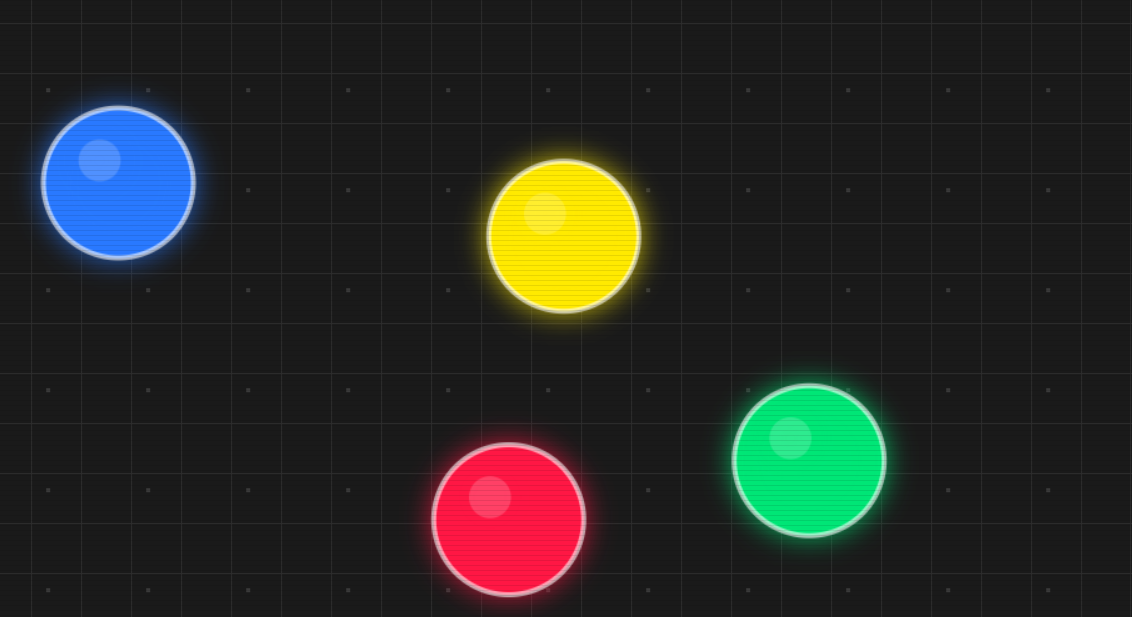
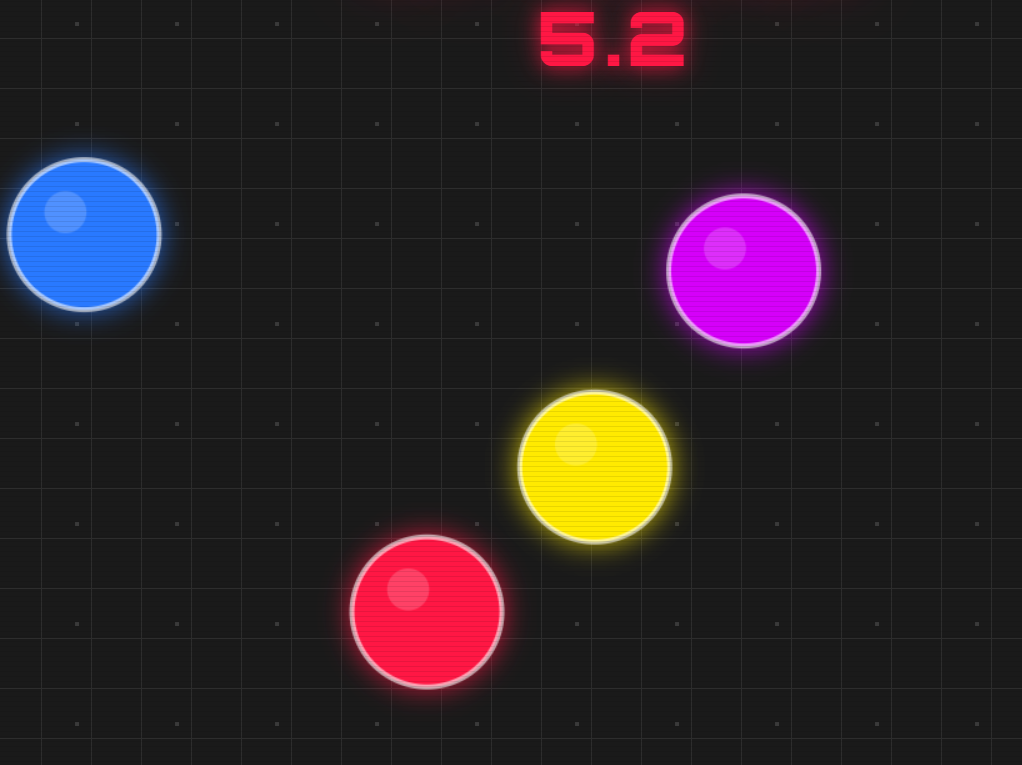
Add files via upload

diff --git a/AimTrainer/script.js b/AimTrainer/script.js
@@ -198,27 +198,25 @@ function updateStats() {
 }
 
 // ── COUNTDOWN ─────────────────────────────────────────────────────
+const countdownEl = document.getElementById("countdown");
+
 function startCountdown(callback) {
     let count = 3;
-    statusText.textContent = count;
+    countdownEl.textContent = count;
     bigTimer.style.display = "none";
 
     const interval = setInterval(() => {
         count--;
-        if (count > 0)        statusText.textContent = count;
-        else if (count === 0) statusText.textContent = "GO!";
+        if (count > 0)        countdownEl.textContent = count;
+        else if (count === 0) countdownEl.textContent = "GO!";
         else {
             clearInterval(interval);
-            statusText.textContent = "";
-            // ← Remet le status en haut après le countdown
-            statusText.style.top      = "70px";
-            statusText.style.fontSize = "20px";
-            statusText.style.transform = "translateX(-50%)";
+            countdownEl.textContent = "";
             bigTimer.style.display = "block";
             callback();
         }
     }, 1000);
-}
+} 
 // ── GAME LOOP ─────────────────────────────────────────────────────
 function loop() {
     if (!running) return;
@@ -232,6 +230,7 @@ function loop() {
 
 // ── START ─────────────────────────────────────────────────────────
 startBtn.onclick = () => {
+    statusText.remove();
     bestReaction = Infinity;
     bestReactionLabel.textContent = "N/A";
     clicks = 0; totalClicks = 0;
@@ -256,6 +255,7 @@ function endGame() {
     running = false;
     updateStats();
     startBtn.style.display = "block";
+    statusText.style.display = "block"; // ← ajoute ça
     traps = [];
     target.x = -9999; target.y = -9999;
     draw();

diff --git a/AimTrainer/AimTrainer.css b/AimTrainer/AimTrainer.css
@@ -91,7 +91,8 @@ h1 {
 /* STATUS */
 #status {
     position: fixed;
-    top: 70px; left: 50%;
+    top: 70px;
+    left: 50%;
     transform: translateX(-50%);
     font-family: 'Orbitron', sans-serif;
     font-size: 20px;
@@ -100,6 +101,25 @@ h1 {
     color: #4a5580;
     text-transform: uppercase;
     z-index: 15;
+}
+
+#countdown {
+    position: fixed;
+    top: 50%;
+    left: 50%;
+    transform: translate(-50%, -50%);
+    font-family: 'Orbitron', sans-serif;
+    font-size: 120px;
+    font-weight: 900;
+    letter-spacing: 6px;
+    color: #ff1744;
+    text-shadow:
+        0 0 20px rgba(255,23,68,0.9),
+        0 0 50px rgba(255,23,68,0.5),
+        0 0 90px rgba(255,23,68,0.3);
+    text-transform: uppercase;
+    z-index: 100;
+    pointer-events: none;
 }
 
 /* TIMER */

diff --git a/AimTrainer/AimTrainer.html b/AimTrainer/AimTrainer.html
@@ -16,7 +16,9 @@
 <h1>Aim Trainer</h1>
 
 <div id="bigTimer">15.0</div>
+
 <div id="status">Click the red circle to score points!</div>
+<div id="countdown"></div>
 
 <div id="hud">
     <div>Score: <span id="score" class="value">0</span></div>
